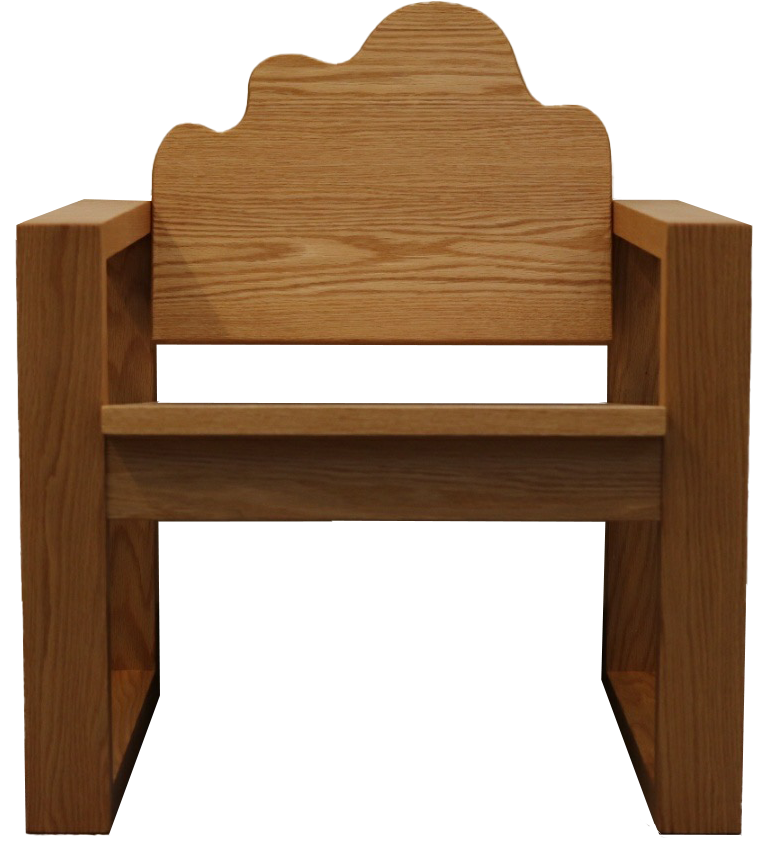
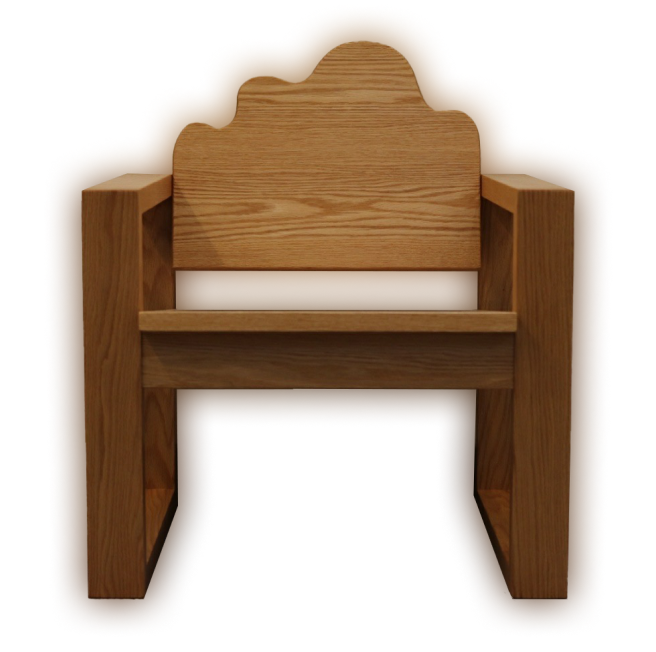
fixed hover thing and replaced grid images

diff --git a/index.html b/index.html
@@ -156,58 +156,44 @@
         <div class="parent">
           <a href="./src/art-pages/night-table.html" class="div1">
             <div class="img1">
-              <!-- <img src="./src/images/art/night-table-cutout.png" width="150px" height="100px" style="filter: blur(10px); position: absolute; z-index: 1;"> -->
               <img src="./src/images/art/night-table-cutout.png" width="150px" height="100px" style="position: relative; z-index: 2;"></div>
             <div class="img2">
-              <!-- <img src="./src/images/art/night-table-cutout-2.png" width="150px" height="100px" style="filter: blur(10px); position: absolute; z-index: 1;"> -->
               <img src="./src/images/art/night-table-cutout-2.png" width="150px" height="100px" style="position: relative; z-index: 2;"></div>
           </a>
           <a href="./src/art-pages/mol.html" class="div2">
             <div class="img1">
-              <!-- <img src="./src/images/art/mol-cutout.png" width="119px" height="150px" style="filter: blur(10px); position: absolute; z-index: 1;"> -->
               <img src="./src/images/art/mol-cutout.png" width="119px" height="150px" style="position: relative; z-index: 2;"></div>
             <div class="img2">
-              <!-- <img src="./src/images/art/mol-cutout-2.png" width="115px" height="150px" style="filter: blur(10px); position: absolute; z-index: 1;"> -->
-              <img src="./src/images/art/mol-cutout-2.png" width="119px" height="150px" style="position: relative; z-index: 2;"></div>
+              <img src="./src/images/art/mol-cutout-2.png" width="119px" height="140px" style="position: relative; z-index: 2;"></div>
           </a>
           <a href="./src/art-pages/chair.html" class="div3">
             <div class="img1">
-              <!-- <img src="./src/images/art/chair-cutout.png" width="117px" height="150px" style="filter: blur(10px); position: absolute; z-index: 1;"> -->
               <img src="./src/images/art/chair-cutout.png" width="117px" height="150px" style="position: relative; z-index: 2;"></div>
             <div class="img2">
-              <!-- <img src="./src/images/art/chair-cutout-2.png" width="117px" height="150px" style="filter: blur(10px); position: absolute; z-index: 1;"> -->
               <img src="./src/images/art/chair-cutout-2.png" width="117px" height="150px" style="position: relative; z-index: 2;"></div>
           </a>
           <a href="./src/art-pages/cloud-chair.html" class="div4">
             <div class="img1">
-              <!-- <img src="./src/images/art/cloud-chair-cutout.png" width="144px" height="130px" style="filter: blur(10px); position: absolute; z-index: 1;"> -->
               <img src="./src/images/art/cloud-chair-cutout.png" width="144px" height="130px" style="position: relative; z-index: 2;"></div>
             <div class="img2">
-              <!-- <img src="./src/images/art/cloud-chair-cutout-2.png" width="130px" height="130px" style="filter: blur(10px); position: absolute; z-index: 1;"> -->
               <img src="./src/images/art/cloud-chair-cutout-2.png" width="130px" height="130px" style="position: relative; z-index: 2;"></div>
           </a>
           <a href="./src/art-pages/atv.html" class="div5">
             <div class="img1">
-              <!-- <img src="./src/images/art/atv-cutout-1.png" width="108px" height="140px" style="filter: blur(10px); position: absolute; z-index: 1;"> -->
               <img src="./src/images/art/atv-cutout-1.png" width="108px" height="140px" style="position: relative; z-index: 2;"></div>
             <div class="img2">
-              <!-- <img src="./src/images/art/atv-cutout-2.png" width="108px" height="140px" style="filter: blur(10px); position: absolute; z-index: 1;"> -->
               <img src="./src/images/art/atv-cutout-2.png" width="108px" height="140px" style="position: relative; z-index: 2;"></div>          
           </a>
           <a href="./src/art-pages/sleep-box.html" class="div6">
             <div class="img1">
-              <!-- <img src="./src/images/art/sleepbox-cutout.png" width="130px" height="86px" style="filter: blur(10px); z-index: 1; position: absolute;"> -->
               <img src="./src/images/art/sleepbox-cutout.png" width="130px" height="86px" style="position: relative; z-index: 2;"></div>
             <div class="img2">
-              <!-- <img src="./src/images/art/sleepbox-cutout-2.png" width="130px" height="86px" style="filter: blur(10px); z-index: 1; position: absolute;"> -->
               <img src="./src/images/art/sleepbox-cutout-2.png" width="130px" height="86px" style="position: relative; z-index: 2;"></div>              
           </a>
           <a href="./src/art-pages/night-box.html" class="div8">
             <div class="img1">
-              <!-- <img src="./src/images/art/nightbox-cutout.png" width="127px" height="140px" style="filter: blur(10px); position: absolute; z-index: 1;"> -->
               <img src="./src/images/art/nightbox-cutout.png" width="127px" height="140px" style="position: relative; z-index: 2;"></div>
             <div class="img2">
-              <!-- <img src="./src/images/art/nightbox-cutout-2.png" width="127px" height="140px" style="filter: blur(10px); position: absolute; z-index: 1;"> -->
               <img src="./src/images/art/nightbox-cutout-2.png" width="127px" height="140px" style="position: relative; z-index: 2;"></div>            
           </a>
         </div>
@@ -218,52 +204,50 @@
           <div class="parent">
               <a href="./src/design-pages/ikea-home-cloud.html" class="div1">
                 <div class="img1">
-                  <!-- <img src="./src/images/design/Ikea_Homecloud_logo.png" width="150px" height="100px" style="filter: blur(10px); position: absolute; z-index: 1;"> -->
                   <img src="./src/images/design/Ikea_Homecloud_logo.png" width="150px" height="100px" style="position: relative; z-index: 2;"></div>
                 <div class="img2">
-                  <img src="./src/images/design/Ikea_Homecloud_logo.png" width="150px" height="100px" style="filter: blur(10px); z-index: 1;">
-                  <!-- <div style="position: relative; z-index: 2; width: 150px;">ui/ux<br>product design</div> -->
+                  <div style="position: relative; z-index: 2; width: 150px;">ui/ux<br>product design</div>
                 </div>
               </a>
               <a href="./src/design-pages/desert-objects.html" class="div2">
-                <div class="img1"><img src="./src/images/design/desert-objects.png" width="150px" style="filter: blur(10px); position: absolute; z-index: 1;">
+                <div class="img1">
                   <img src="./src/images/design/desert-objects.png" width="150px" style="position: relative; z-index: 2;"></div>
-                <div class="img2"><img src="./src/images/design/desert-objects.png" width="150px" style="filter: blur(10px); position: absolute; z-index: 1;">
+                <div class="img2">
                   <div style="position: relative; z-index: 2; width: 150px;">zine<br>furniture design</div>
                 </div>
               </a>
               <a href="./src/design-pages/modular-gardening.html" class="div3">
-                <div class="img1"><img src="./src/images/design/modular-gardening-logo.png" width="160px" height="100px" style="filter: blur(10px); position: absolute; z-index: 1;">
+                <div class="img1">
                   <img src="./src/images/design/modular-gardening-logo.png" width="160px" height="100px" style="position: relative; z-index: 2;"></div>
-                <div class="img2"><img src="./src/images/design/modular-gardening-logo.png" width="160px" height="100px" style="filter: blur(10px); position: absolute; z-index: 1;">
+                <div class="img2">
                   <div style="position: relative; z-index: 2; width: 160px;">ui/ux<br>product design</div>
                 </div>
               </a>
               <a href="./src/design-pages/dole.html" class="div4">
-                <div class="img1"><img src="./src/images/design/dole-Logo1-word.png" width="150px" height="100px" style="filter: blur(10px); position: absolute; z-index: 1;">
+                <div class="img1">
                   <img src="./src/images/design/dole-Logo1-word.png" width="150px" height="100px" style="position: relative; z-index: 2;"></div>
-                <div class="img2"><img src="./src/images/design/dole-Logo1-word.png" width="150px" height="100px" style="filter: blur(10px); position: absolute; z-index: 1;">
+                <div class="img2">
                   <div style="position: relative; z-index: 2; width:150px;">branding<br>logo design</div>
                 </div>
               </a>
               <a href="./src/design-pages/gammelgarden.html" class="div5">
-                <div class="img1"><img src="./src/images/design/christmas-postcard-icon.png" width="150px" height="100px" style="filter: blur(10px); position: absolute; z-index: 1;">
+                <div class="img1">
                   <img src="./src/images/design/christmas-postcard-icon.png" width="150px" height="100px" style="position: relative; z-index: 2;"></div>
-                <div class="img2"><img src="./src/images/design/christmas-postcard-icon.png" width="150px" height="100px" style="filter: blur(10px); position: absolute; z-index: 1;">
+                <div class="img2">
                   <div style="position: relative; z-index: 2; width:150px;">postcard<br>signage</div>
                 </div>
               </a>
               <a href="./src/design-pages/seeing-through-vessels.html" class="div6">
-                <div class="img1"><img src="./src/images/design/seeing-though-vessels-logo.png" width="150px" height="100px" style="filter: blur(10px); position: absolute; z-index: 1;">
-                  <img src="./src/images/design/seeing-though-vessels-logo.png" width="150px" height="100px" style="position: relative; z-index: 2;"></div>
-                <div class="img2"><img src="./src/images/design/seeing-though-vessels-logo.png" width="150px" height="100px" style="filter: blur(10px); position: absolute; z-index: 1;">
+                <div class="img1">
+                  <img src="./src/images/design/seeing-through-vessels-logo.png" width="150px" height="100px" style="position: relative; z-index: 2;"></div>
+                <div class="img2">
                   <div style="position: relative; z-index: 2; width:150px;">exhibition design</div>
                 </div>
               </a>
               <a href="./src/design-pages/weatherly.html" class="div8">
-                <div class="img1"><img src="./src/images/design/weatherly-logo-2.png" width="150px" height="100px" style="filter: blur(10px); position: absolute; z-index: 1;">
+                <div class="img1">
                   <img src="./src/images/design/weatherly-logo-2.png" width="150px" height="100px" style="position: relative; z-index: 2;"></div>
-                <div class="img2"><img src="./src/images/design/weatherly-logo-2.png" width="150px" height="100px" style="filter: blur(10px); position: absolute; z-index: 1;">
+                <div class="img2">
                   <div style="position: relative; z-index: 2; width:150px;">ui/ux design</div>
                 </div>
               </a>

diff --git a/dist/index.html b/dist/index.html
@@ -156,58 +156,44 @@
         <div class="parent">
           <a href="/src/art-pages/night-table.html" class="div1">
             <div class="img1">
-              <!-- <img src="./src/images/art/night-table-cutout.png" width="150px" height="100px" style="filter: blur(10px); position: absolute; z-index: 1;"> -->
               <img src="/night-table-cutout.5be5f1e2.png" width="150px" height="100px" style="z-index: 2; position: relative"></div>
             <div class="img2">
-              <!-- <img src="./src/images/art/night-table-cutout-2.png" width="150px" height="100px" style="filter: blur(10px); position: absolute; z-index: 1;"> -->
               <img src="/night-table-cutout-2.1a2f879a.png" width="150px" height="100px" style="z-index: 2; position: relative"></div>
           </a>
           <a href="/src/art-pages/mol.html" class="div2">
             <div class="img1">
-              <!-- <img src="./src/images/art/mol-cutout.png" width="119px" height="150px" style="filter: blur(10px); position: absolute; z-index: 1;"> -->
               <img src="/mol-cutout.07321622.png" width="119px" height="150px" style="z-index: 2; position: relative"></div>
             <div class="img2">
-              <!-- <img src="./src/images/art/mol-cutout-2.png" width="115px" height="150px" style="filter: blur(10px); position: absolute; z-index: 1;"> -->
-              <img src="/mol-cutout-2.09cc8e45.png" width="119px" height="150px" style="z-index: 2; position: relative"></div>
+              <img src="/mol-cutout-2.09cc8e45.png" width="119px" height="140px" style="z-index: 2; position: relative"></div>
           </a>
           <a href="/src/art-pages/chair.html" class="div3">
             <div class="img1">
-              <!-- <img src="./src/images/art/chair-cutout.png" width="117px" height="150px" style="filter: blur(10px); position: absolute; z-index: 1;"> -->
               <img src="/chair-cutout.dfe7180e.png" width="117px" height="150px" style="z-index: 2; position: relative"></div>
             <div class="img2">
-              <!-- <img src="./src/images/art/chair-cutout-2.png" width="117px" height="150px" style="filter: blur(10px); position: absolute; z-index: 1;"> -->
               <img src="/chair-cutout-2.8367f32c.png" width="117px" height="150px" style="z-index: 2; position: relative"></div>
           </a>
           <a href="/src/art-pages/cloud-chair.html" class="div4">
             <div class="img1">
-              <!-- <img src="./src/images/art/cloud-chair-cutout.png" width="144px" height="130px" style="filter: blur(10px); position: absolute; z-index: 1;"> -->
               <img src="/cloud-chair-cutout.cc8cc695.png" width="144px" height="130px" style="z-index: 2; position: relative"></div>
             <div class="img2">
-              <!-- <img src="./src/images/art/cloud-chair-cutout-2.png" width="130px" height="130px" style="filter: blur(10px); position: absolute; z-index: 1;"> -->
               <img src="/cloud-chair-cutout-2.b9388850.png" width="130px" height="130px" style="z-index: 2; position: relative"></div>
           </a>
           <a href="/src/art-pages/atv.html" class="div5">
             <div class="img1">
-              <!-- <img src="./src/images/art/atv-cutout-1.png" width="108px" height="140px" style="filter: blur(10px); position: absolute; z-index: 1;"> -->
               <img src="/atv-cutout-1.bae191dc.png" width="108px" height="140px" style="z-index: 2; position: relative"></div>
             <div class="img2">
-              <!-- <img src="./src/images/art/atv-cutout-2.png" width="108px" height="140px" style="filter: blur(10px); position: absolute; z-index: 1;"> -->
               <img src="/atv-cutout-2.68f5a028.png" width="108px" height="140px" style="z-index: 2; position: relative"></div>          
           </a>
           <a href="/src/art-pages/sleep-box.html" class="div6">
             <div class="img1">
-              <!-- <img src="./src/images/art/sleepbox-cutout.png" width="130px" height="86px" style="filter: blur(10px); z-index: 1; position: absolute;"> -->
               <img src="/sleepbox-cutout.2431d888.png" width="130px" height="86px" style="z-index: 2; position: relative"></div>
             <div class="img2">
-              <!-- <img src="./src/images/art/sleepbox-cutout-2.png" width="130px" height="86px" style="filter: blur(10px); z-index: 1; position: absolute;"> -->
               <img src="/sleepbox-cutout-2.ddabec60.png" width="130px" height="86px" style="z-index: 2; position: relative"></div>              
           </a>
           <a href="/src/art-pages/night-box.html" class="div8">
             <div class="img1">
-              <!-- <img src="./src/images/art/nightbox-cutout.png" width="127px" height="140px" style="filter: blur(10px); position: absolute; z-index: 1;"> -->
               <img src="/nightbox-cutout.a14022f5.png" width="127px" height="140px" style="z-index: 2; position: relative"></div>
             <div class="img2">
-              <!-- <img src="./src/images/art/nightbox-cutout-2.png" width="127px" height="140px" style="filter: blur(10px); position: absolute; z-index: 1;"> -->
               <img src="/nightbox-cutout-2.ac9d63bb.png" width="127px" height="140px" style="z-index: 2; position: relative"></div>            
           </a>
         </div>
@@ -218,52 +204,50 @@
           <div class="parent">
               <a href="/src/design-pages/ikea-home-cloud.html" class="div1">
                 <div class="img1">
-                  <!-- <img src="./src/images/design/Ikea_Homecloud_logo.png" width="150px" height="100px" style="filter: blur(10px); position: absolute; z-index: 1;"> -->
                   <img src="/Ikea_Homecloud_logo.7df8c393.png" width="150px" height="100px" style="z-index: 2; position: relative"></div>
                 <div class="img2">
-                  <img src="/Ikea_Homecloud_logo.7df8c393.png" width="150px" height="100px" style="filter: blur(10px); z-index: 1">
-                  <!-- <div style="position: relative; z-index: 2; width: 150px;">ui/ux<br>product design</div> -->
+                  <div style="z-index: 2; width: 150px; position: relative">ui/ux<br>product design</div>
                 </div>
               </a>
               <a href="/src/design-pages/desert-objects.html" class="div2">
-                <div class="img1"><img src="/desert-objects.9ef956b2.png" width="150px" style="filter: blur(10px); z-index: 1; position: absolute">
+                <div class="img1">
                   <img src="/desert-objects.9ef956b2.png" width="150px" style="z-index: 2; position: relative"></div>
-                <div class="img2"><img src="/desert-objects.9ef956b2.png" width="150px" style="filter: blur(10px); z-index: 1; position: absolute">
+                <div class="img2">
                   <div style="z-index: 2; width: 150px; position: relative">zine<br>furniture design</div>
                 </div>
               </a>
               <a href="/src/design-pages/modular-gardening.html" class="div3">
-                <div class="img1"><img src="/modular-gardening-logo.da1f13af.png" width="160px" height="100px" style="filter: blur(10px); z-index: 1; position: absolute">
+                <div class="img1">
                   <img src="/modular-gardening-logo.da1f13af.png" width="160px" height="100px" style="z-index: 2; position: relative"></div>
-                <div class="img2"><img src="/modular-gardening-logo.da1f13af.png" width="160px" height="100px" style="filter: blur(10px); z-index: 1; position: absolute">
+                <div class="img2">
                   <div style="z-index: 2; width: 160px; position: relative">ui/ux<br>product design</div>
                 </div>
               </a>
               <a href="/src/design-pages/dole.html" class="div4">
-                <div class="img1"><img src="/dole-Logo1-word.d9f49c61.png" width="150px" height="100px" style="filter: blur(10px); z-index: 1; position: absolute">
+                <div class="img1">
                   <img src="/dole-Logo1-word.d9f49c61.png" width="150px" height="100px" style="z-index: 2; position: relative"></div>
-                <div class="img2"><img src="/dole-Logo1-word.d9f49c61.png" width="150px" height="100px" style="filter: blur(10px); z-index: 1; position: absolute">
+                <div class="img2">
                   <div style="z-index: 2; width: 150px; position: relative">branding<br>logo design</div>
                 </div>
               </a>
               <a href="/src/design-pages/gammelgarden.html" class="div5">
-                <div class="img1"><img src="/christmas-postcard-icon.d6ab7774.png" width="150px" height="100px" style="filter: blur(10px); z-index: 1; position: absolute">
+                <div class="img1">
                   <img src="/christmas-postcard-icon.d6ab7774.png" width="150px" height="100px" style="z-index: 2; position: relative"></div>
-                <div class="img2"><img src="/christmas-postcard-icon.d6ab7774.png" width="150px" height="100px" style="filter: blur(10px); z-index: 1; position: absolute">
+                <div class="img2">
                   <div style="z-index: 2; width: 150px; position: relative">postcard<br>signage</div>
                 </div>
               </a>
               <a href="/src/design-pages/seeing-through-vessels.html" class="div6">
-                <div class="img1"><img src="/seeing-though-vessels-logo.828b6412.png" width="150px" height="100px" style="filter: blur(10px); z-index: 1; position: absolute">
-                  <img src="/seeing-though-vessels-logo.828b6412.png" width="150px" height="100px" style="z-index: 2; position: relative"></div>
-                <div class="img2"><img src="/seeing-though-vessels-logo.828b6412.png" width="150px" height="100px" style="filter: blur(10px); z-index: 1; position: absolute">
+                <div class="img1">
+                  <img src="/seeing-through-vessels-logo.7e70c4d5.png" width="150px" height="100px" style="z-index: 2; position: relative"></div>
+                <div class="img2">
                   <div style="z-index: 2; width: 150px; position: relative">exhibition design</div>
                 </div>
               </a>
               <a href="/src/design-pages/weatherly.html" class="div8">
-                <div class="img1"><img src="/weatherly-logo-2.3072c668.png" width="150px" height="100px" style="filter: blur(10px); z-index: 1; position: absolute">
+                <div class="img1">
                   <img src="/weatherly-logo-2.3072c668.png" width="150px" height="100px" style="z-index: 2; position: relative"></div>
-                <div class="img2"><img src="/weatherly-logo-2.3072c668.png" width="150px" height="100px" style="filter: blur(10px); z-index: 1; position: absolute">
+                <div class="img2">
                   <div style="z-index: 2; width: 150px; position: relative">ui/ux design</div>
                 </div>
               </a>

diff --git a/src/design.html b/src/design.html
@@ -52,9 +52,9 @@
             </div>
           </a>
           <a href="./design-pages/seeing-through-vessels.html" class="div6">
-            <div class="img1"><img src="./images/design/seeing-though-vessels-logo.png" width="150px" height="100px" style="filter: blur(10px); position: absolute; z-index: 1;">
-              <img src="./images/design/seeing-though-vessels-logo.png" width="150px" height="100px" style="position: relative; z-index: 2;"></div>
-            <div class="img2"><img src="./images/design/seeing-though-vessels-logo.png" width="150px" height="100px" style="filter: blur(10px); position: absolute; z-index: 1;">
+            <div class="img1"><img src="./images/design/seeing-through-vessels-logo.png" width="150px" height="100px" style="filter: blur(10px); position: absolute; z-index: 1;">
+              <img src="./images/design/seeing-through-vessels-logo.png" width="150px" height="100px" style="position: relative; z-index: 2;"></div>
+            <div class="img2"><img src="./images/design/seeing-through-vessels-logo.png" width="150px" height="100px" style="filter: blur(10px); position: absolute; z-index: 1;">
               <div style="position: relative; z-index: 2; width:150px;">exhibition design</div>
             </div>
           </a>

diff --git a/dist/src/design.html b/dist/src/design.html
@@ -52,9 +52,9 @@
             </div>
           </a>
           <a href="/src/design-pages/seeing-through-vessels.html" class="div6">
-            <div class="img1"><img src="/seeing-though-vessels-logo.828b6412.png" width="150px" height="100px" style="filter: blur(10px); z-index: 1; position: absolute">
-              <img src="/seeing-though-vessels-logo.828b6412.png" width="150px" height="100px" style="z-index: 2; position: relative"></div>
-            <div class="img2"><img src="/seeing-though-vessels-logo.828b6412.png" width="150px" height="100px" style="filter: blur(10px); z-index: 1; position: absolute">
+            <div class="img1"><img src="/seeing-through-vessels-logo.7e70c4d5.png" width="150px" height="100px" style="filter: blur(10px); z-index: 1; position: absolute">
+              <img src="/seeing-through-vessels-logo.7e70c4d5.png" width="150px" height="100px" style="z-index: 2; position: relative"></div>
+            <div class="img2"><img src="/seeing-through-vessels-logo.7e70c4d5.png" width="150px" height="100px" style="filter: blur(10px); z-index: 1; position: absolute">
               <div style="z-index: 2; width: 150px; position: relative">exhibition design</div>
             </div>
           </a>

diff --git a/dist/index.33c59dea.css b/dist/index.33c59dea.css
@@ -243,17 +243,8 @@ img, video {
   --tw-backdrop-sepia: ;
 }
 
-.absolute {
-  position: absolute;
-}
-
 .relative {
   position: relative;
-}
-
-.blur {
-  --tw-blur: blur(8px);
-  filter: var(--tw-blur) var(--tw-brightness) var(--tw-contrast) var(--tw-grayscale) var(--tw-hue-rotate) var(--tw-invert) var(--tw-saturate) var(--tw-sepia) var(--tw-drop-shadow);
 }
 
 .filter {
@@ -686,7 +677,6 @@ button {
 .div2 .img2 {
   z-index: 99;
   align-self: center;
-  padding: 40px;
   display: none;
 }
 
@@ -947,7 +937,6 @@ button {
   justify-content: center;
   width: 100vw;
   height: 80vh;
-  margin-top: 20px;
   display: flex;
 }
 

diff --git a/src/transition.js b/src/transition.js
@@ -32,3 +32,16 @@ function prevSlide() {
 // Add click event listeners to the buttons
 nextButton.addEventListener('click', nextSlide);
 prevButton.addEventListener('click', prevSlide);
+
+// To disable scrolling
+window.addEventListener('scroll', preventScroll, { passive: false });
+
+function preventScroll(e) {
+    e.preventDefault();
+    e.stopPropagation();
+
+    return false;
+}
+
+// To re-enable scrolling
+// window.removeEventListener('scroll', preventScroll);

diff --git a/src/sion.css b/src/sion.css
@@ -460,7 +460,7 @@ button {
     /* position: absolute; */
     align-self: center;
     z-index: 99;
-    padding: 40px
+    /* padding: 40px */
   }
   .div2:hover .img2 {
     display: flex;
@@ -702,7 +702,7 @@ button {
     justify-content: center;
     height: 80vh;
     width: 100vw;
-    margin-top: 20px;
+    /* margin-top: 20px; */
   }
 
   /* * { margin: 0 }
